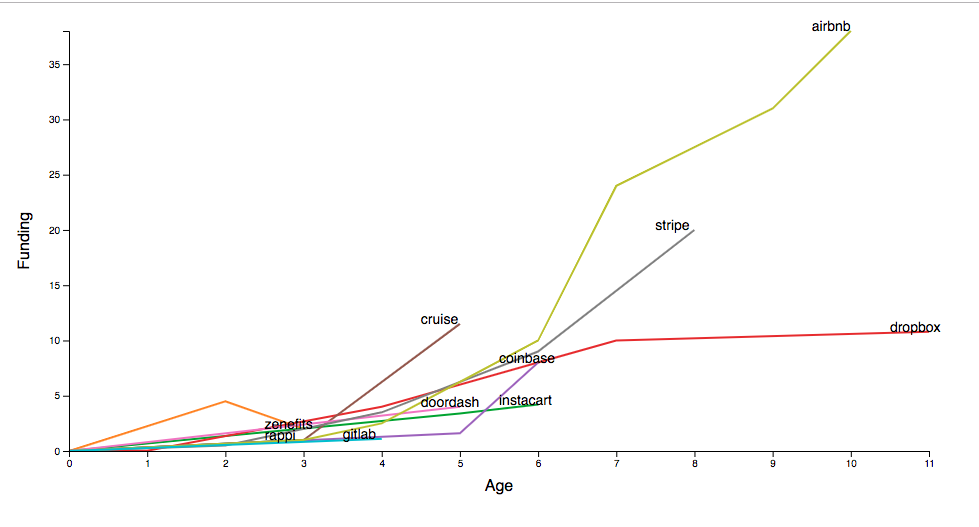
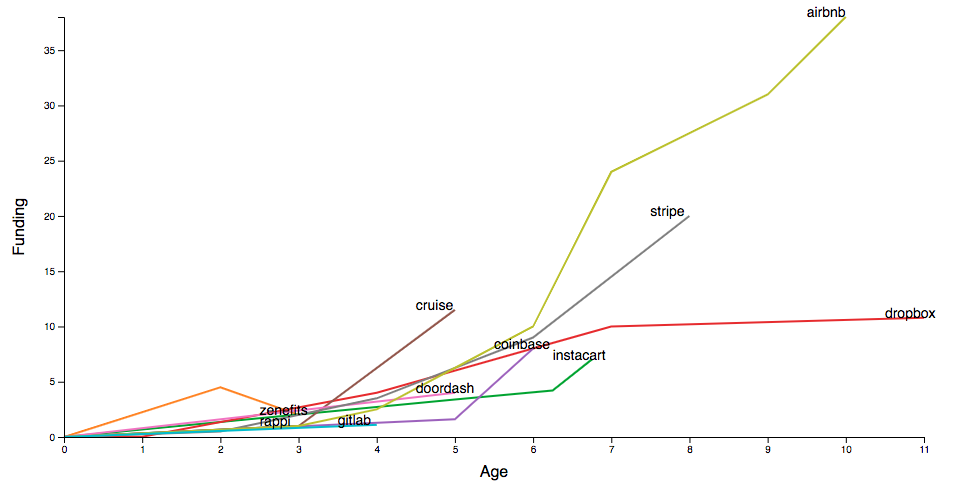
add latest instacart valuation

diff --git a/companies.js b/companies.js
@@ -517,7 +517,11 @@ const companies = {
       },
       {
         "billions": 4.2,
-        "year": 2018
+        "year": 2018.25,
+      },
+      {
+        "billions": 7,
+        "year": 2018.75
       }
     ]
   },
